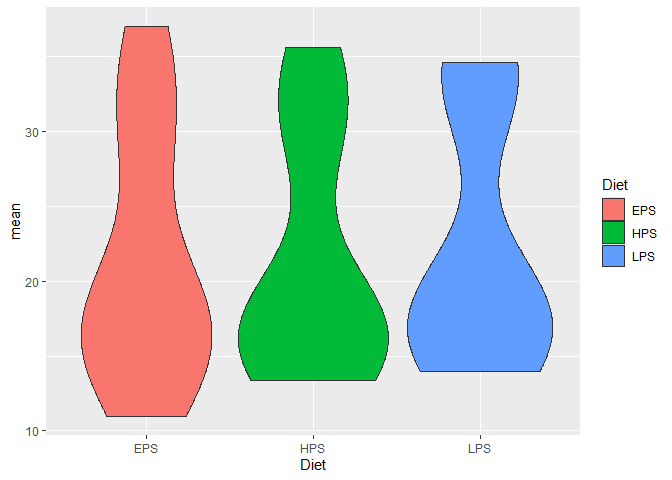
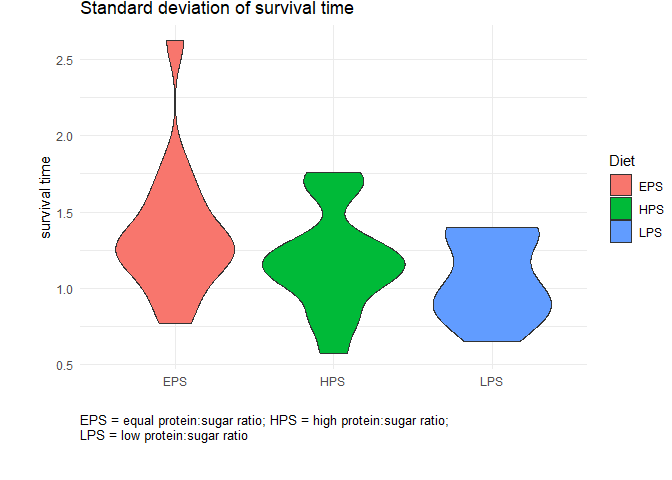
plots

diff --git a/Projects/merinehlsen/jan-thiele7.md b/Projects/merinehlsen/jan-thiele7.md
@@ -88,11 +88,78 @@
       )
 
     ggplot(survival_final, aes(x=Diet, y=mean, fill=Diet)) + 
-      geom_violin()
+      geom_violin()+
+      ylab("survival time")+
+      xlab("")+
+      ggtitle("Mean of survival time")+
+      labs(caption = "EPS = equal protein:sugar ratio; HPS = high protein:sugar ratio; \nLPS = low protein:sugar ratio")+
+      theme_minimal()+
+      theme(plot.caption = element_text(hjust = 0, size = 10),
+            plot.margin = unit(c(0, 0, 1, 1), "cm")) 
+
+![](jan-thiele7_files/figure-markdown_strict/unnamed-chunk-5-1.png)
+
+    ggplot(survival_final, aes(x=Diet, y=sd, fill=Diet)) + 
+      geom_violin()+
+      ylab("survival time")+
+      xlab("")+
+      ggtitle("Standard deviation of survival time")+
+      labs(caption = "EPS = equal protein:sugar ratio; HPS = high protein:sugar ratio; \nLPS = low protein:sugar ratio")+
+      theme_minimal()+
+      theme(plot.caption = element_text(hjust = 0, size = 10),
+            plot.margin = unit(c(0, 0, 1, 1), "cm")) 
 
 ![](jan-thiele7_files/figure-markdown_strict/unnamed-chunk-6-1.png)
 
-    ggplot(survival_final, aes(x=Diet, y=sd, fill=Diet)) + 
-      geom_violin()
+##### Developement Time
 
-![](jan-thiele7_files/figure-markdown_strict/unnamed-chunk-7-1.png)
+    #This chunk changes the structure of the dataset so that each column represents a different case, including all the mean and sd values for male and female.
+    dev_time_wide<- dev_time[c(1:6),]
+    #dev_time_wide[c(7:9),]<-NA
+
+
+    test1=dev_time_wide[, seq(1, ncol(dev_time_wide), by = 2)]%>%
+      drop_na()%>%
+      select(-X1)
+
+    test2=dev_time_wide[, seq(2, ncol(dev_time_wide), by = 2)]%>%
+      drop_na()%>%
+      setNames(names(test1))
+
+    test3= rbind(test2,test1, make.row.names=F)
+    dev_time_wide= cbind( variablen=c(dev_time_wide$X1,"L-P_SD", "P-E_SD", "L-E_SD"), test3)
+
+
+
+    # renaming of each column to case1-30 to have a unique identifier
+    dev_time_wide <- dev_time_wide %>%
+      rename_with(.cols = -`variablen`, .fn = ~paste0("Case", seq_along(.)))
+
+    dev_time_wide <- dev_time_wide %>%
+      pivot_longer(cols = -`variablen`, names_to = "Case", values_to = "Value") %>%
+      pivot_wider(names_from = `variablen`, values_from = Value)
+
+    survival_wide <- survival_wide %>%
+      mutate(across(-c(Case,Line,Diet,n), ~ as.numeric(gsub(",", ".", .))))
+
+    dev_time_final<- dev_time_wide %>%
+      rename(
+        L_P_mean ='L-P',
+        P_E_mean ='P-E',
+        L_E_mean ='L-E',
+        L_P_sd = `L-P_SD`,
+        P_E_sd = `P-E_SD`,
+        L_E_sd = `L-E_SD`
+      )%>%
+      pivot_longer(
+        cols = starts_with("L_P_") | starts_with("P_E_") | starts_with("L_E_"),
+        names_to = c("stage", ".value"),
+        names_pattern = "(L_P|P_E|L_E)_(mean|sd)"
+      )
+
+    # ggplot(dev_time_final, aes(x=diet, y=mean)) + 
+    #   geom_violin()+
+    #   ylab("Developmental Time")+
+    #   xlab("")+
+    #   ggtitle("Mean of developmental time")+
+    #   labs(caption = "EPS = equal protein:sugar ratio; HPS = high protein:sugar ratio; \nLPS = low protein:sugar ratio")
